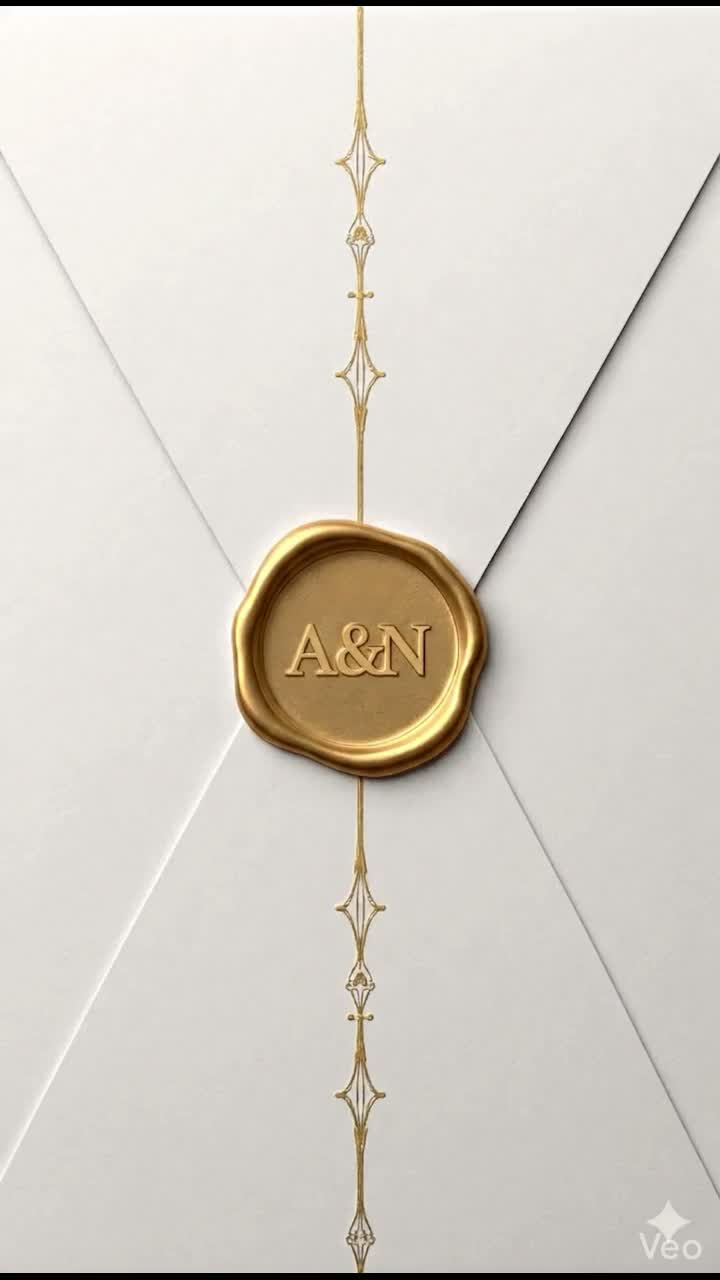
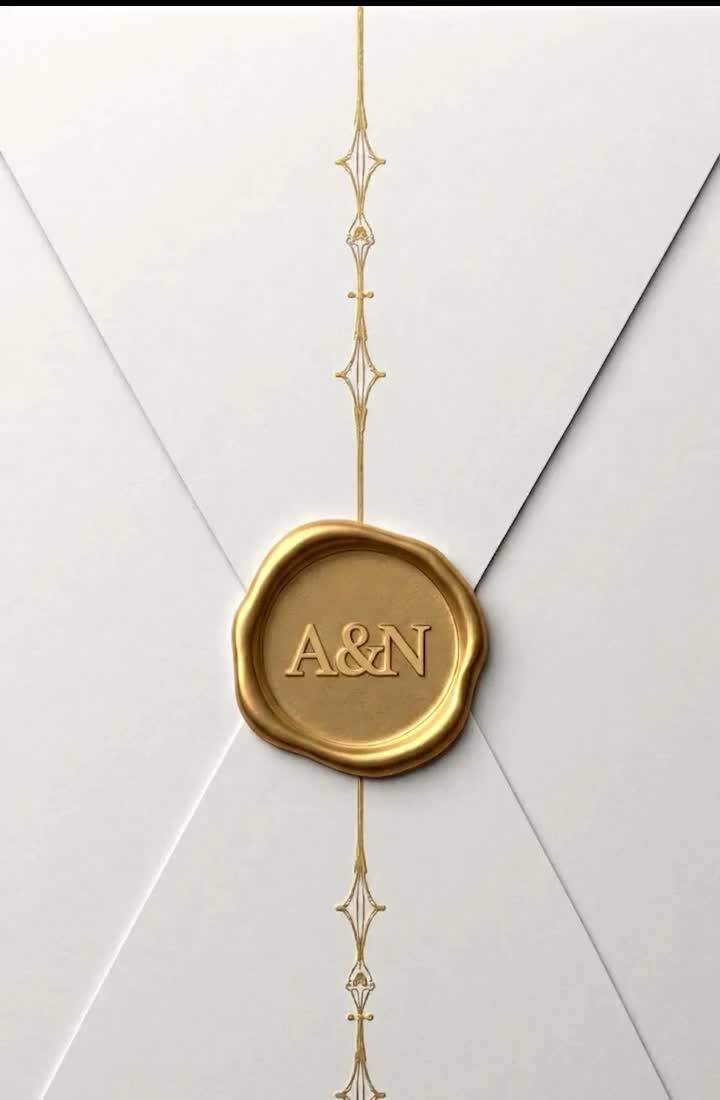
crop Veo watermark from bottom right, scale video 115vh

diff --git a/app/globals.css b/app/globals.css
@@ -29,15 +29,15 @@ html, body {
 .env-screen video {
   display: block;
   width: 100vw;
-  height: 100vh;
+  height: 115vh;
   min-width: 100vw;
-  min-height: 100vh;
+  min-height: 115vh;
   object-fit: cover;
   object-position: center top;
   position: absolute;
-  top: 50%;
+  top: 0;
   left: 50%;
-  transform: translate(-50%, -50%);
+  transform: translate(-50%, 0);
 }
 .env-screen.gone { opacity: 0; visibility: hidden; pointer-events: none; }
 
